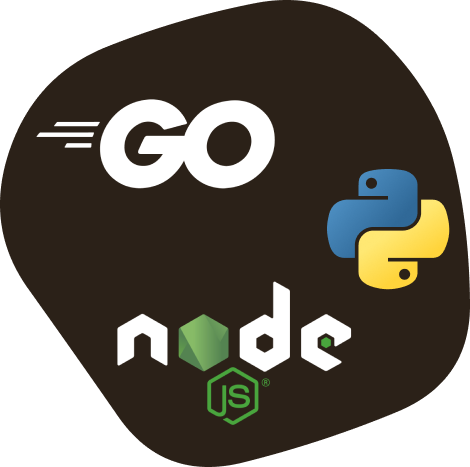
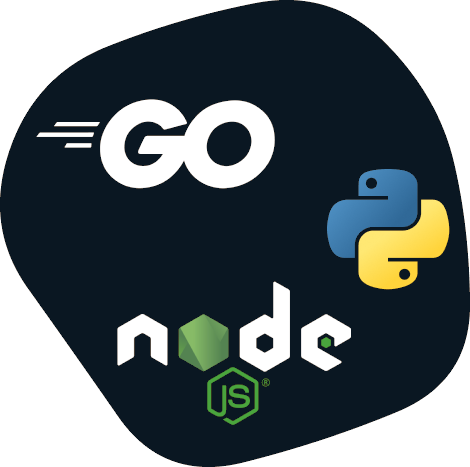
change dark color to a deep blue one

diff --git a/sections/landing.js b/sections/landing.js
@@ -17,7 +17,7 @@ export default function Landing() {
       </header>
       <div className="2xl:w-3/4 flex flex-col-reverse lg:flex-row items-center justify-center mx-auto lg:space-x-20 xl:space-x-28 landing-content lg:px-20">
         <div className="font-display text-white mt-8 sm:mt-14 lg:mt-0 tracking-wide">
-          <h1 className="text-2xl md:text-3xl lg:text-4xl xl:text-5xl">
+          <h1 className="text-2xl md:text-3xl lg:text-4xl xl:text-5xl" style={{lineHeight: 1.25}}>
             I'm a{" "}
             <u>
               Full Stack <br /> Developer

diff --git a/public/styles.css b/public/styles.css
@@ -74,7 +74,7 @@ a {
   }
 
   .custom-shape-divider-bottom-1631355392 .shape-fill {
-    fill: #2b2118;
+    fill: #0a1723;
   }
 }
 
@@ -96,7 +96,7 @@ a {
   }
 
   .custom-shape-divider-bottom-1631356239 .shape-fill {
-    fill: #2b2118;
+    fill: #0a1723;
   }
 
   /** For tablet devices **/

diff --git a/tailwind.config.js b/tailwind.config.js
@@ -13,7 +13,7 @@ module.exports = {
         secondary: "#FFB800",
         accent: "#9FE5BF",
         white: "#F1F7F8",
-        black: "#2B2118",
+        black: "#0a1723",
       },
     },
     fontFamily: {
